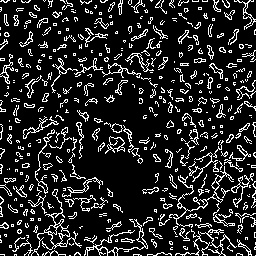
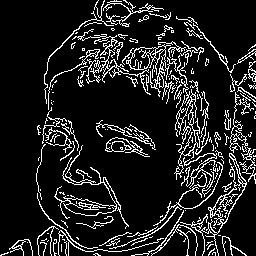
Correção em canny pointilhismo

diff --git a/canny_point/setup.py b/canny_point/setup.py
@@ -8,7 +8,7 @@ JITTER = 3
 RADIUS = 3
 CANNY_RADIUS = 2
 
-T1 = 120
+T1 = 30
 
 if len(sys.argv) < 2:
     sys.exit("Missing parameters")
@@ -54,7 +54,7 @@ for i in xrange:
 cv.imshow("Pointillism", points)
 cv.imwrite("point.jpg", points)
 
-edges = cv.Canny(points, T1, 3*T1) 
+edges = cv.Canny(image, T1, 3*T1) 
 
 cv.imshow('Canny',edges) 
 cv.imwrite("canny.jpg", edges)
